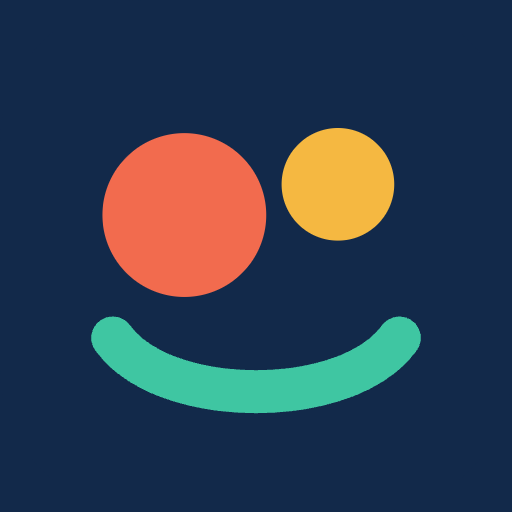
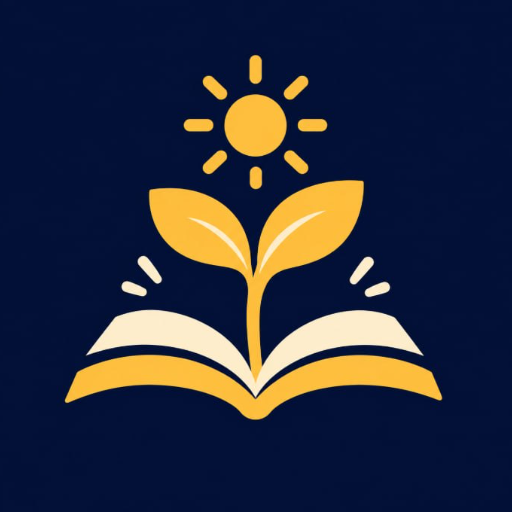
책·새싹 로고 이미지와 홈 화면 아이콘 교체

diff --git a/assets/style.css b/assets/style.css
@@ -37,7 +37,7 @@ body.memo-off .memo{display:none}
 header.top{position:sticky; top:0; z-index:50; background:rgba(255,255,255,.94); backdrop-filter:blur(10px); border-bottom:1px solid var(--line)}
 header.top .wrap{display:flex; align-items:center; gap:24px; height:84px}
 .brand{display:flex; align-items:center; gap:12px; margin-right:auto}
-.brand svg{width:50px; height:50px; flex:none; border-radius:14px; box-shadow:var(--shadow-sm)}
+.brand img{width:50px; height:50px; flex:none; border-radius:14px; object-fit:cover; box-shadow:var(--shadow-sm)}
 .brand b{display:block; font-size:23px; font-weight:800; letter-spacing:-.04em; line-height:1.1}
 .brand span{display:block; font-size:12.5px; color:var(--muted); font-weight:500; margin-top:4px}
 nav.main{display:flex; gap:4px}
@@ -276,7 +276,7 @@ footer .copy{margin-top:22px; font-size:13.5px; color:#9FB0C8}
   .panel,.benefit,.contact{padding:36px 24px} footer .ch{grid-template-columns:1fr 1fr}
 }
 @media (max-width:600px){
-  .wrap{padding:0 18px} header.top .wrap{height:70px} .brand svg{width:42px; height:42px} .brand b{font-size:19px} .brand span{font-size:11px}
+  .wrap{padding:0 18px} header.top .wrap{height:70px} .brand img{width:42px; height:42px} .brand b{font-size:19px} .brand span{font-size:11px}
   header.top .btn{padding:10px 16px; font-size:14px}
   .notice .box{padding:4px 18px} .notice .row{grid-template-columns:1fr; gap:10px}
   .menu a{grid-template-columns:60px 1fr} .menu img{width:60px; height:60px} .menu .go{grid-column:1 / -1; text-align:center}
